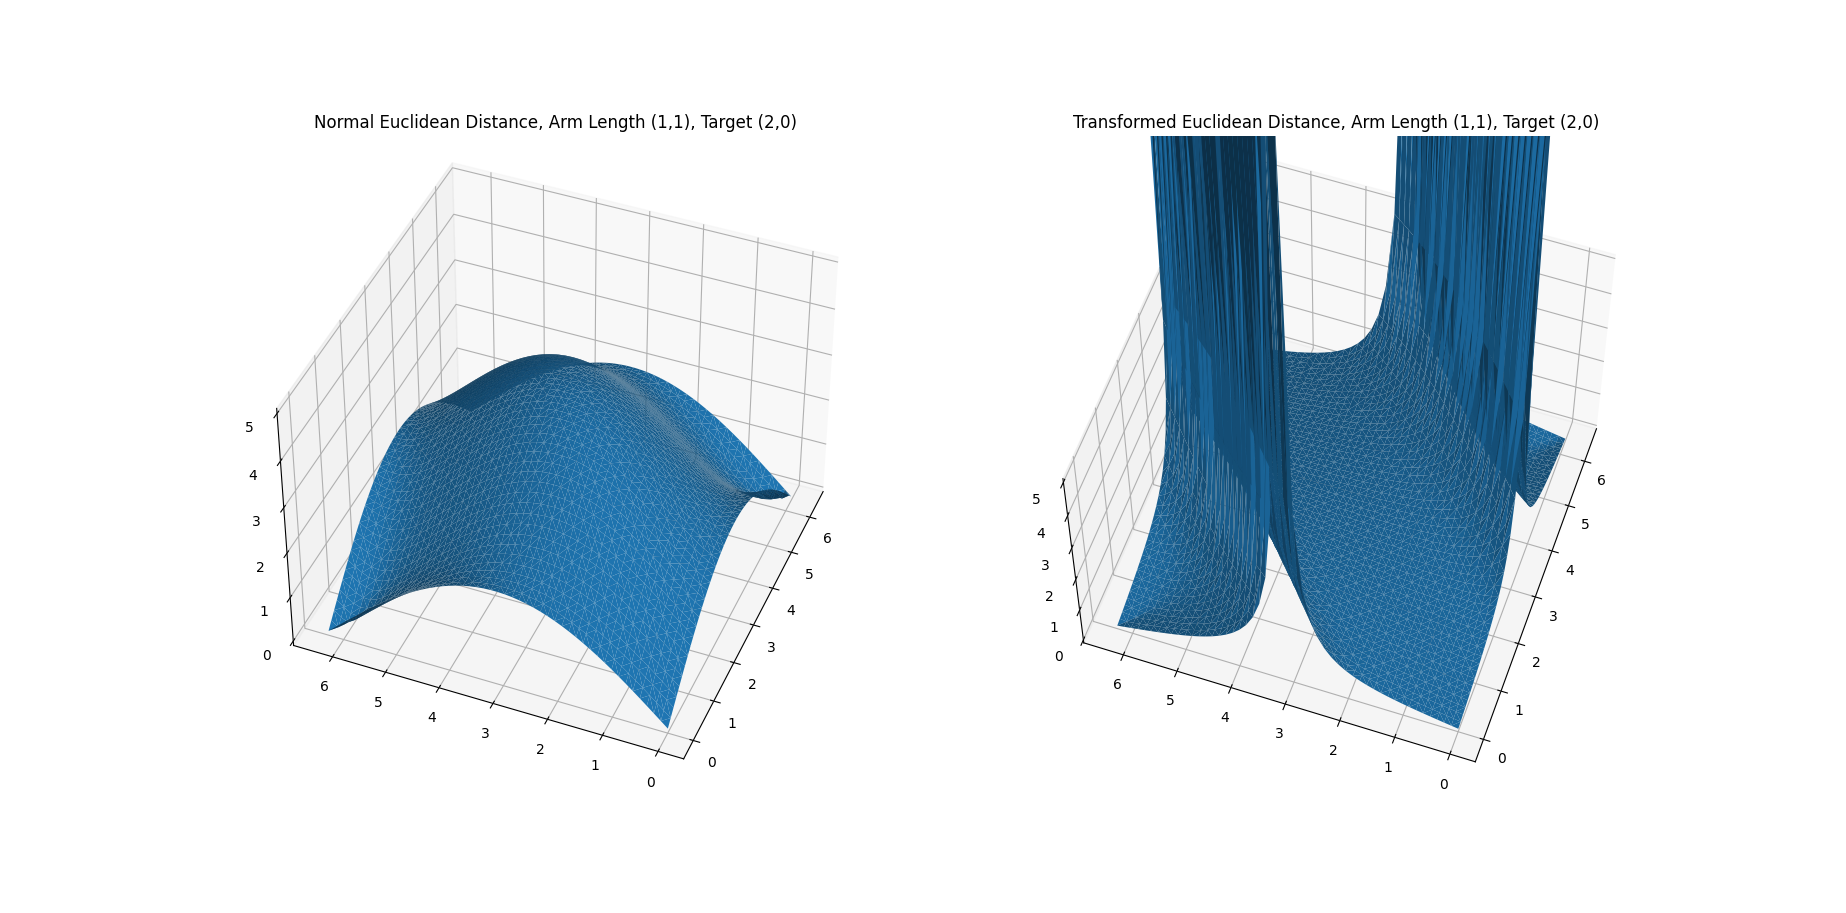
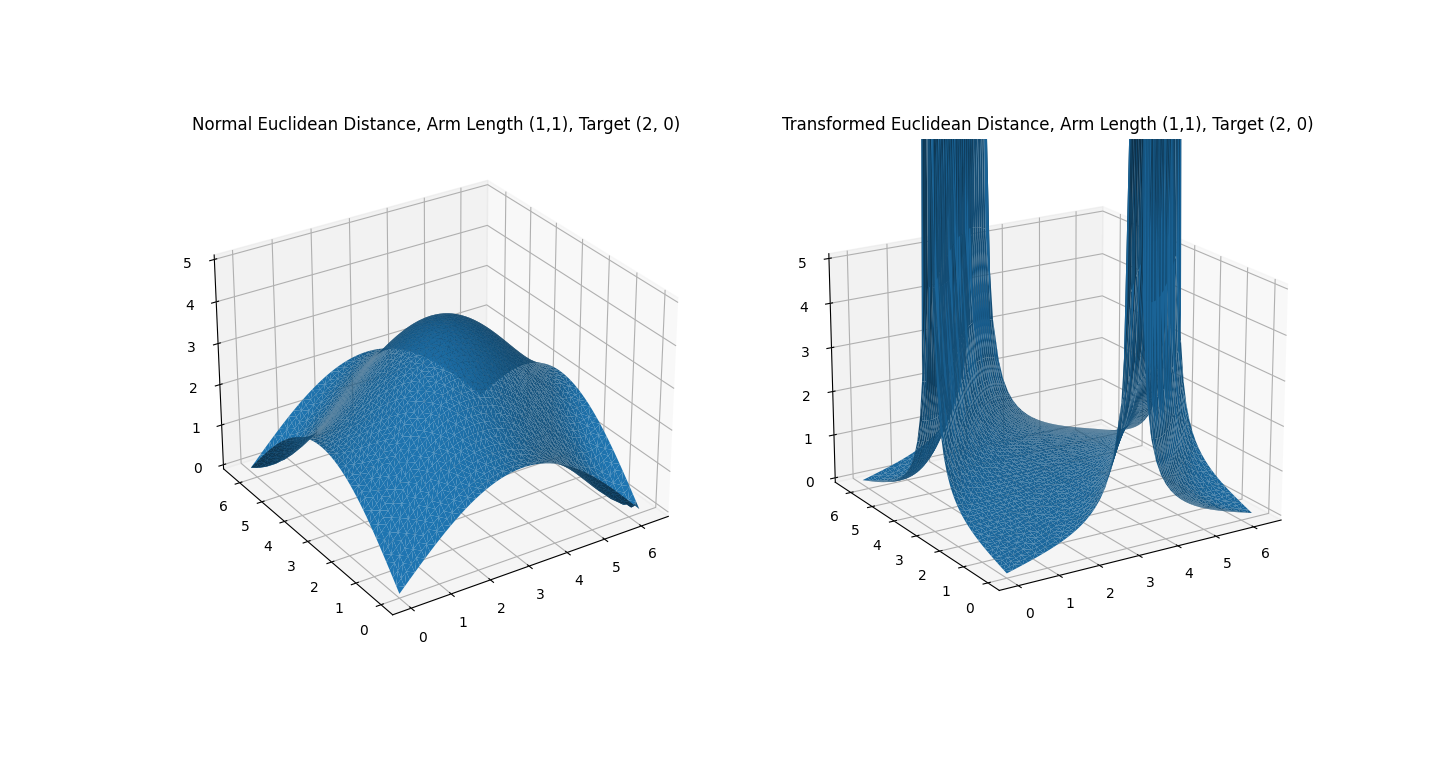
kinda works, no obstacle yet

Changed region(s): [[0.5287, 0.1232, 0.9019, 0.8318], [0.1244, 0.2157, 0.4665, 0.8318], [0.1244, 0.1232, 0.4665, 0.2157]]

diff --git a/2DOF.py b/2DOF.py
@@ -99,13 +99,13 @@ ax2 = fig.add_subplot(1, 2, 2, projection='3d')
 ax1.set_zlim(0, 5)
 ax2.set_zlim(0, 5)
 if __name__ == "__main__":
-    mtx = go_brr(arm_length=[1, 5], target=[2, 2])
+    mtx = go_brr(arm_length=[1, 1], target=[2, 0])
     ax1.plot_trisurf(mtx[0], mtx[1], mtx[2])
-    ax1.set_title("Normal Euclidean Distance, Arm Length (1,5), Target (2, 2)")
+    ax1.set_title("Normal Euclidean Distance, Arm Length (1,1), Target (2, 0)")
 
     ax2.plot_trisurf(mtx[0], mtx[1], mtx[3])
     ax2.set_title(
-        "Transformed Euclidean Distance, Arm Length (1,5), Target (2, 2)")
+        "Transformed Euclidean Distance, Arm Length (1,1), Target (2, 0)")
 
     print(mtx[0][539], mtx[1][539])
     plt.show()
